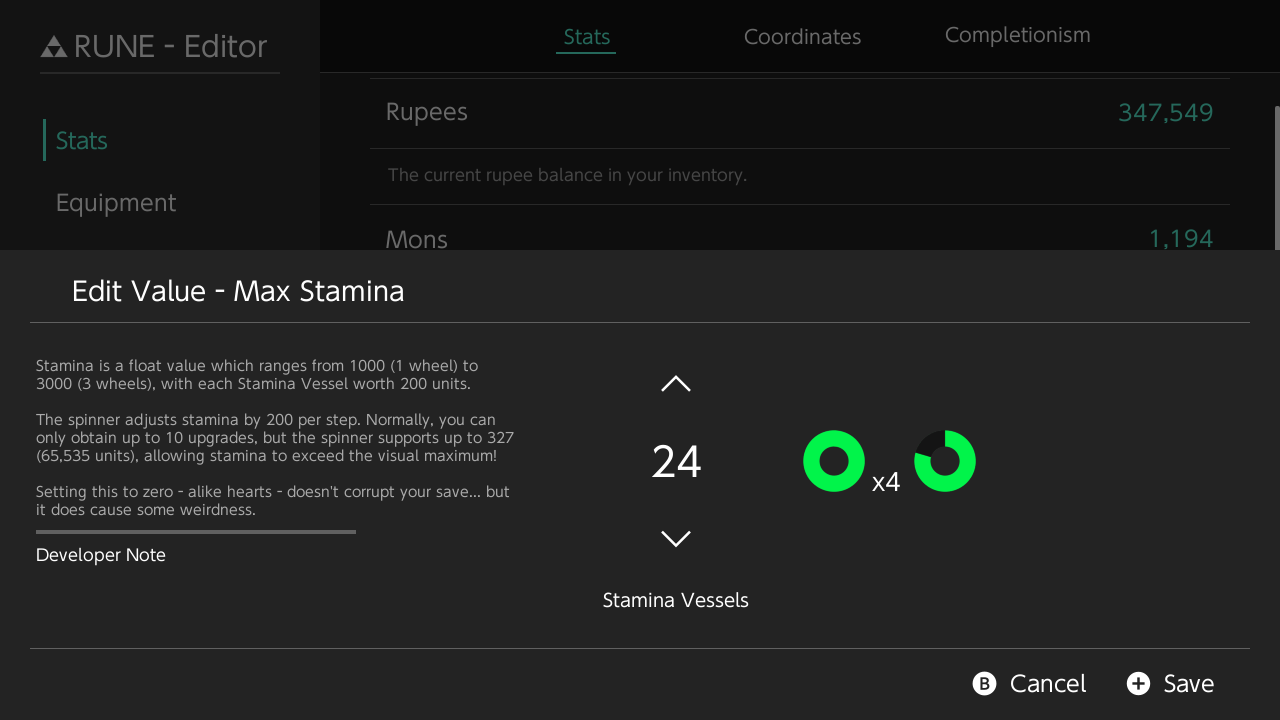
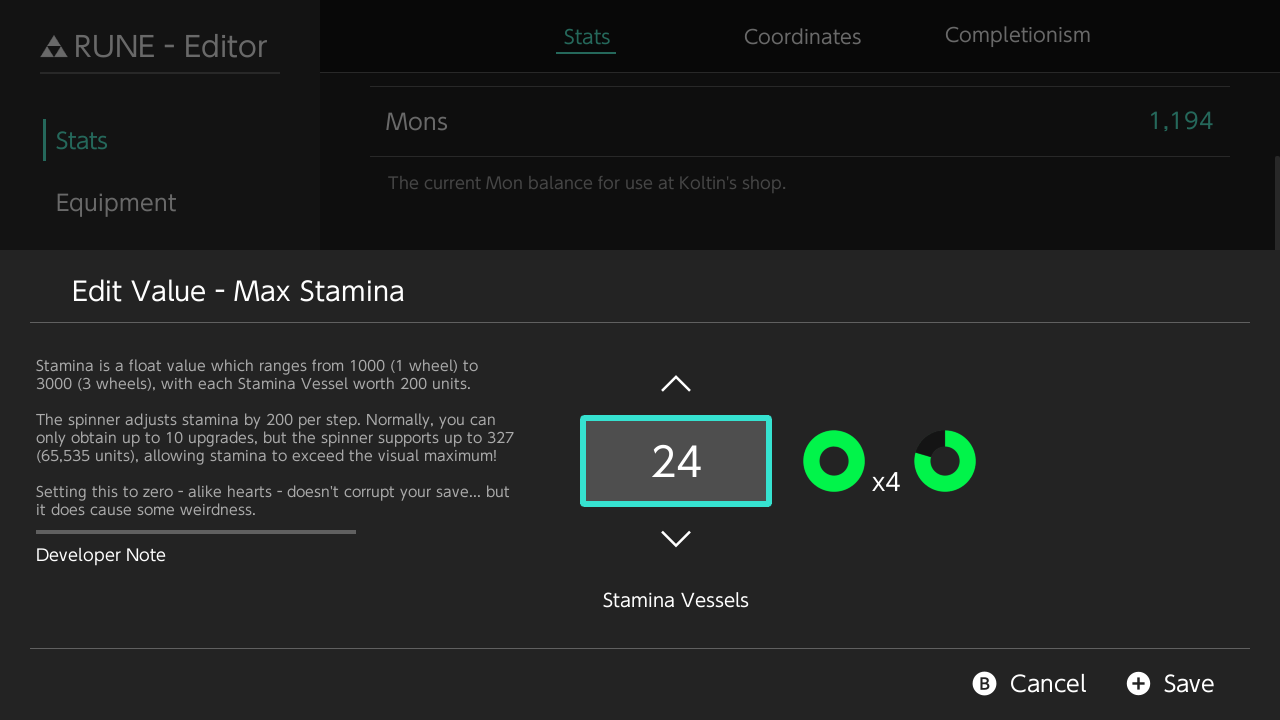
README formatting test 2

diff --git a/README.md b/README.md
@@ -1,4 +1,4 @@
-<div style="text-align: center;">
+<div align="center">
     <h1>RUNE - Native NX GUI Save Editor for BotW</h1>
     <img src="RUNE.jpg">
 </div>
